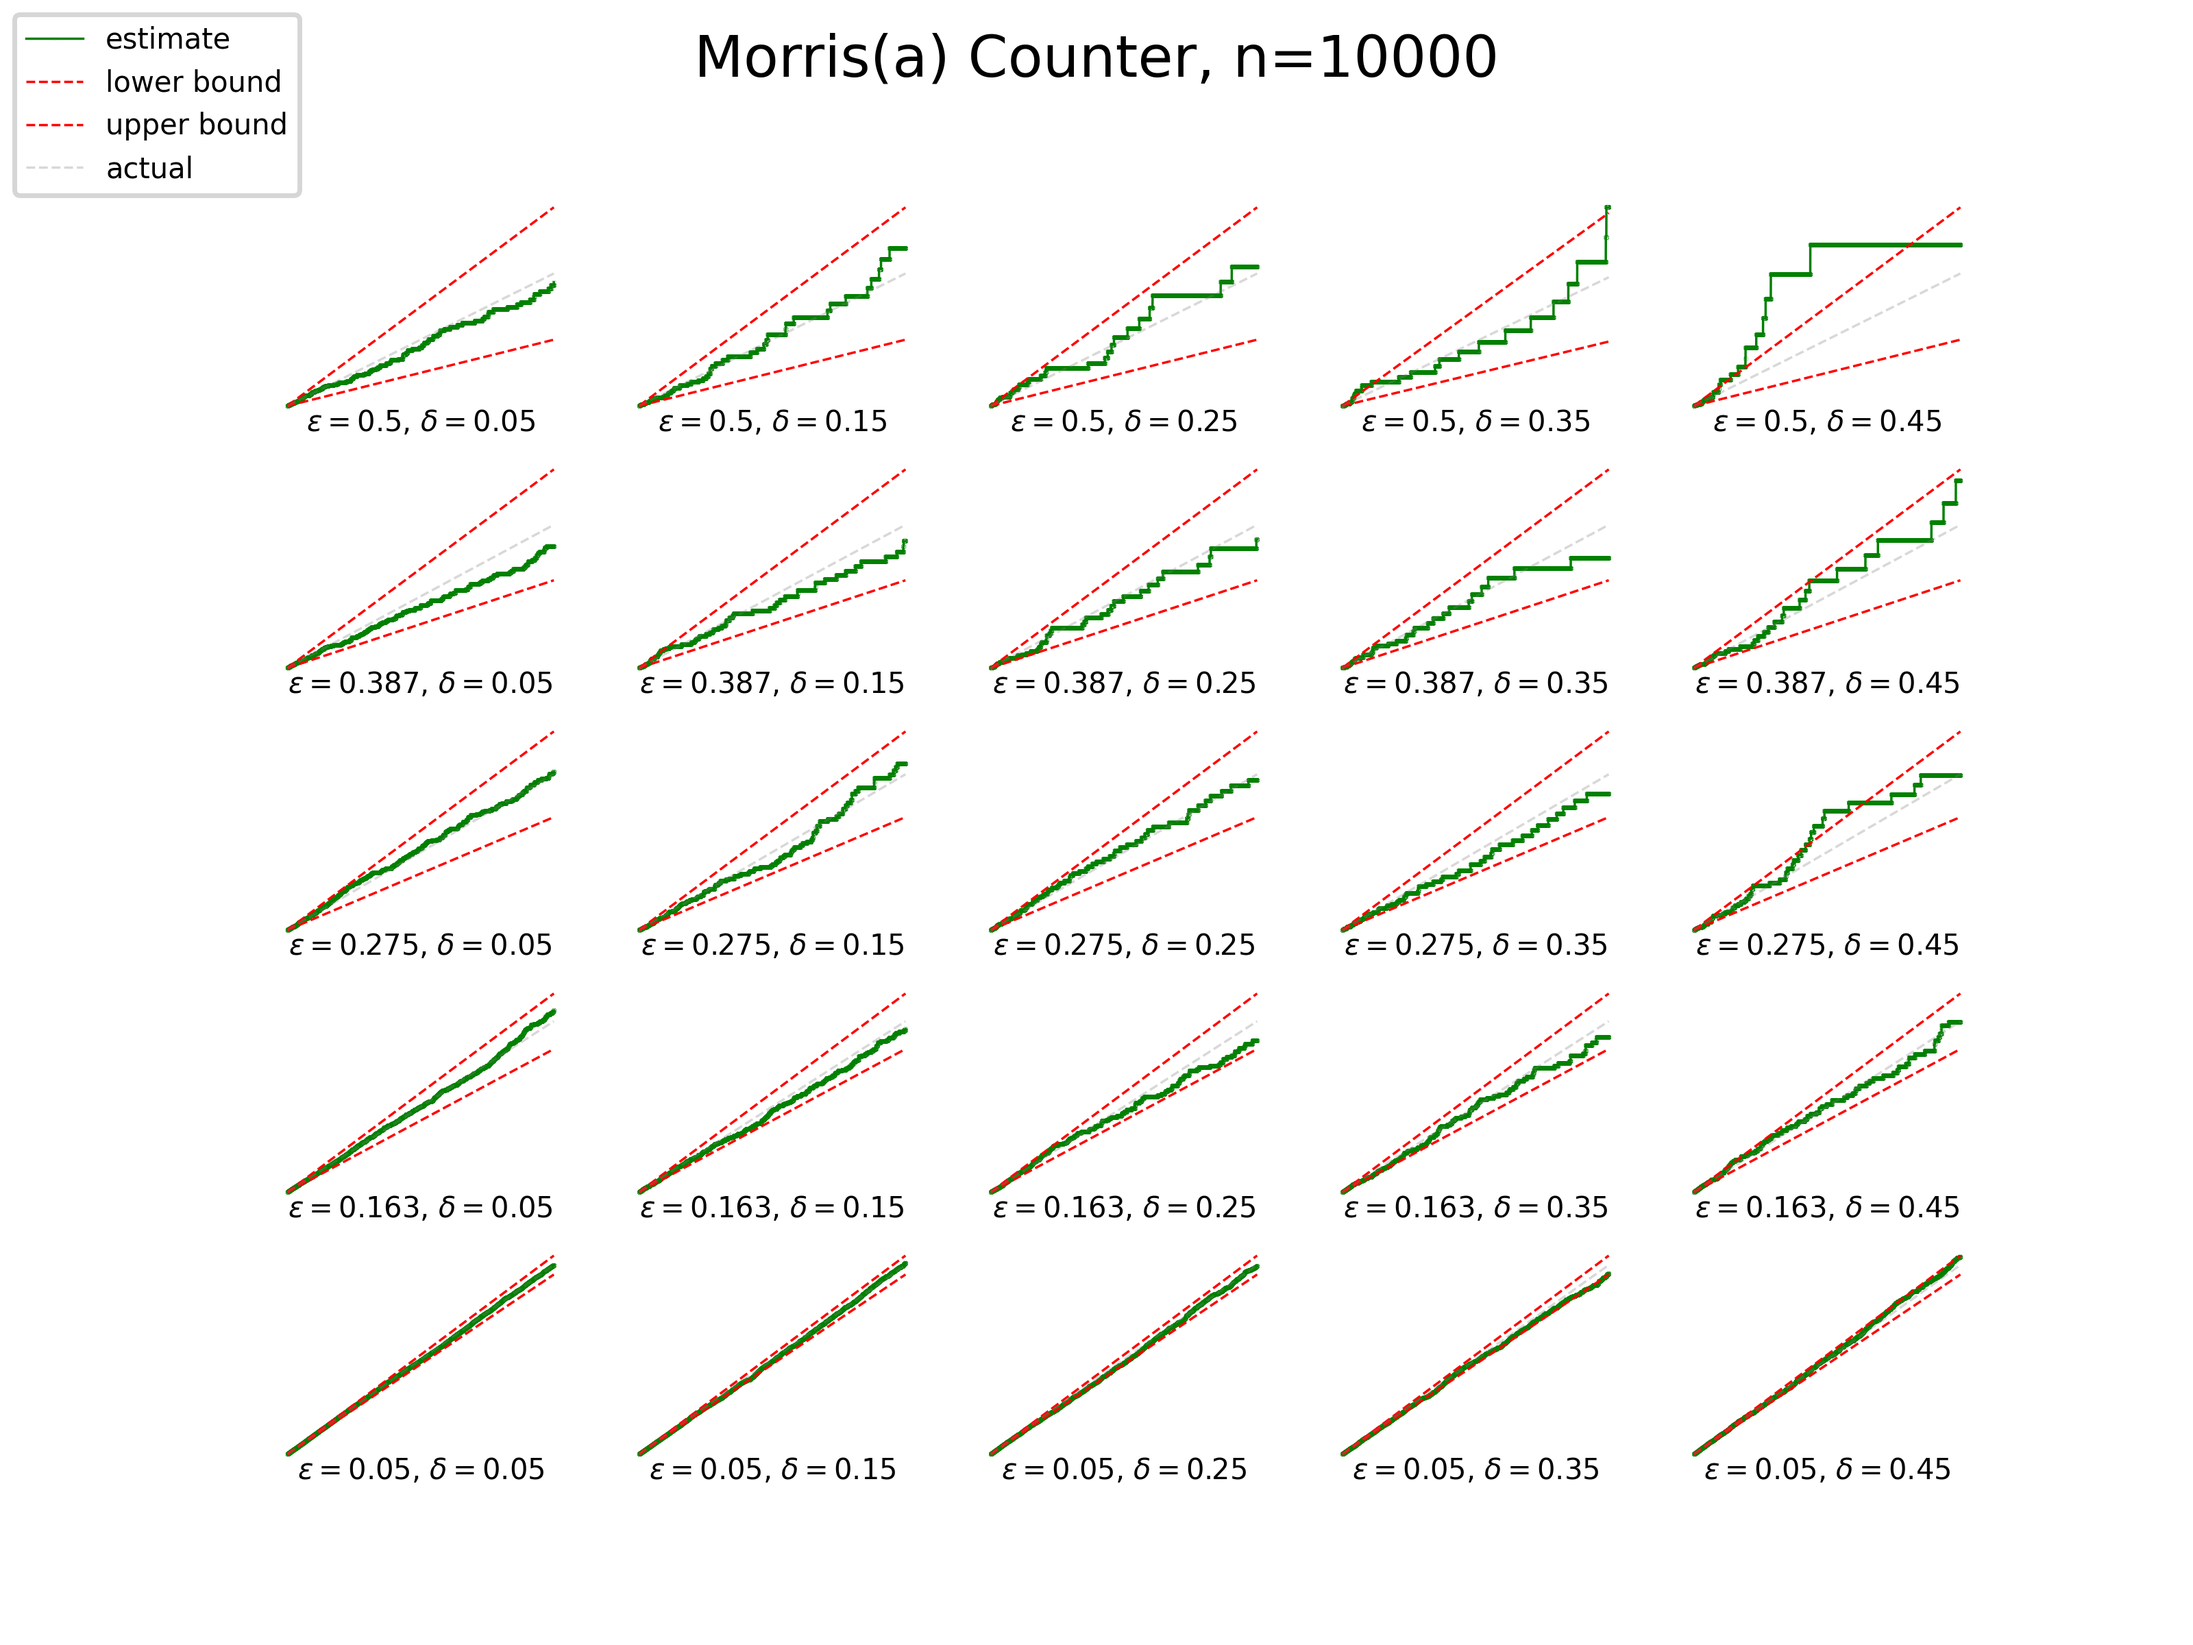
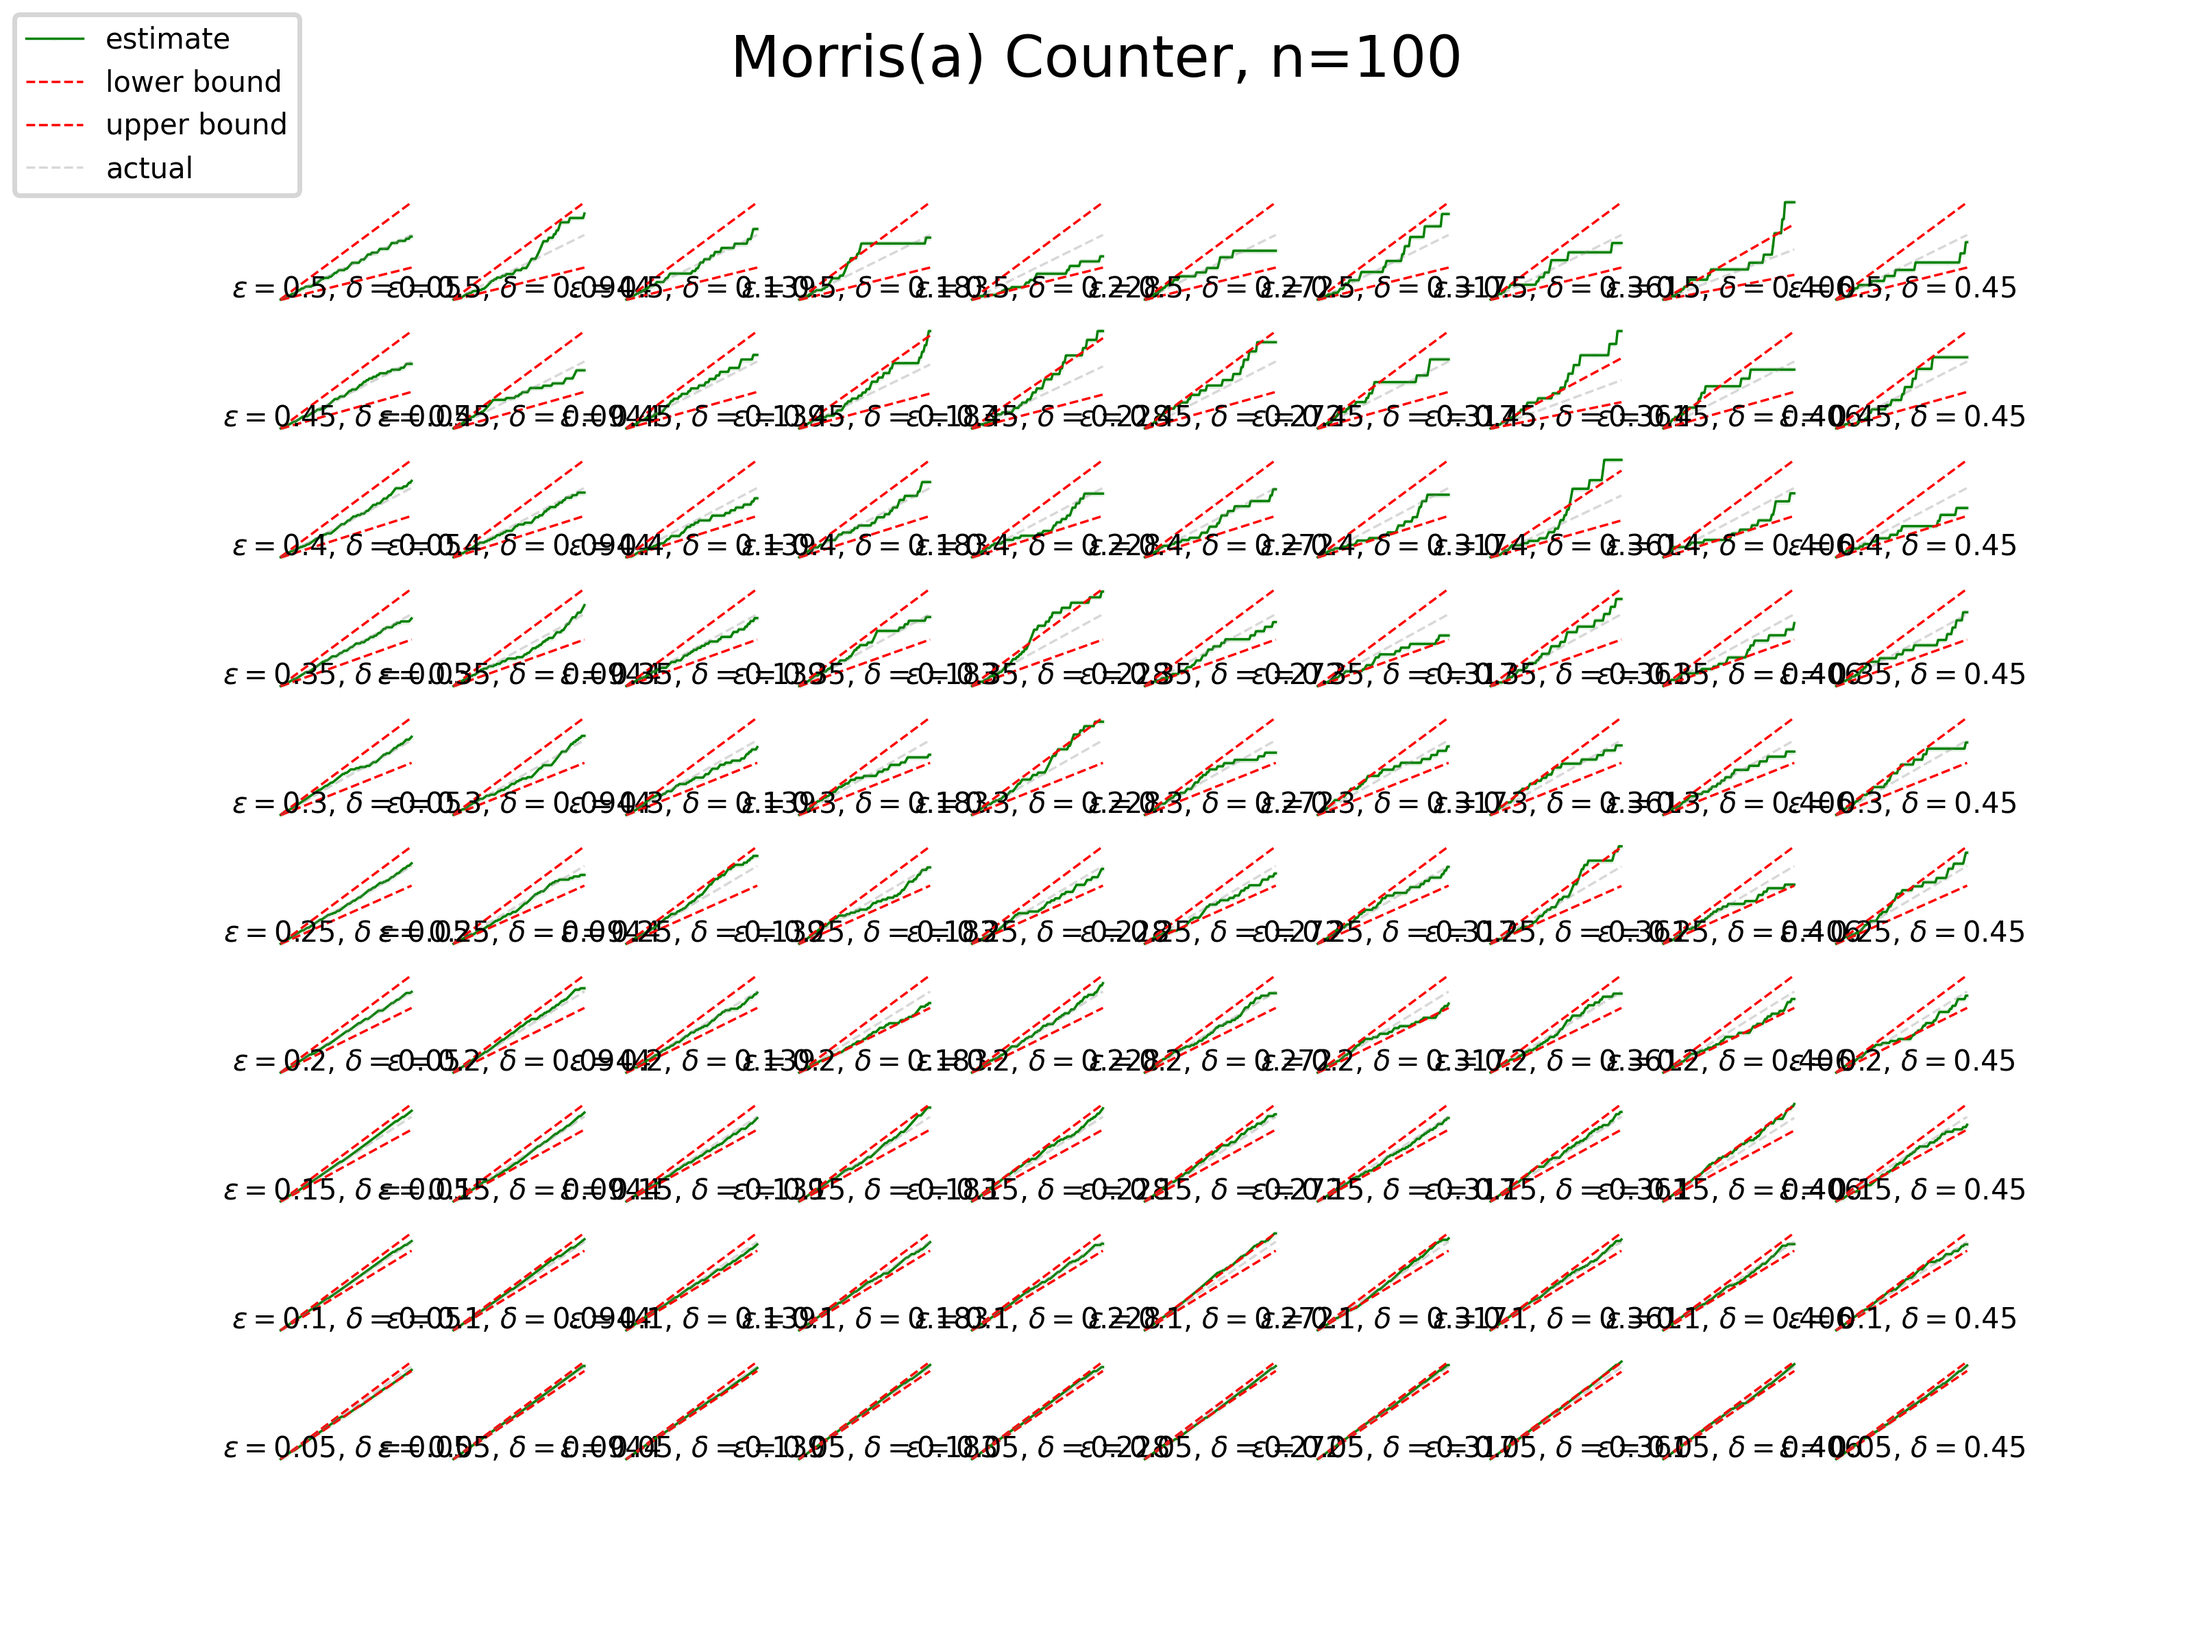
Update: plot_morriscounter.py comments added

Changed region(s): [[0.125, 0.125, 0.9062, 0.8438], [0.125, 0.8438, 0.9062, 0.9062], [0.3125, 0.0, 0.625, 0.0625]]

diff --git a/plot_morriscounter.py b/plot_morriscounter.py
@@ -4,7 +4,15 @@ from matplotlib.axis import Axis
 
 from morriscounter import MorrisCounter
 
+'''
+The following test file is only responsible for creating the graphs which are found
+We define "uppers, lowers, estimates, actuals" and keep appending the respective values of the counter 
+upon each loop, into the respective arrays. 
 
+This gets an array for each field. 
+
+This is then consecutively plotted on the chart. 
+'''
 def test(counter: MorrisCounter, n: int, axis: Axis) -> None:
   uppers, lowers, estimates, actuals = [], [], [], []
   for N in range(1, n+1):
@@ -22,6 +30,7 @@ def test(counter: MorrisCounter, n: int, axis: Axis) -> None:
 
     # print(f"{actual=}, {estimate=:.8f} in [{lower:.8f}, {upper:.8f}]")
 
+  # The following portion is responsible for the creation of the respective graphs we see.
   MARKER_SIZE=.01
   LINE_WIDTH=.5
   axis.plot(actuals, estimates, label="estimate", marker="o", color="green", markersize=MARKER_SIZE, linewidth=LINE_WIDTH)
@@ -34,14 +43,21 @@ def test(counter: MorrisCounter, n: int, axis: Axis) -> None:
 
 
 if __name__ == '__main__':
-  n = 10000
-  bins = 5
+  n = 100
+  bins = 10
   fig, axes = plt.subplots(bins, bins)
-  for r, accuracy in enumerate(np.linspace(.5, .95, bins)):
-    for c, max_failure_rate in enumerate(np.linspace(0.05, .45, bins)):
-      print(f"{accuracy=}, {max_failure_rate=}")
-      counter = MorrisCounter(accuracy=accuracy, max_failure_rate=max_failure_rate)
-      test(counter, n=n, axis=axes[r][c])
+  print(np.linspace(.5, .95, bins))
+  for r, accuracy in enumerate(np.linspace(.5, .95, bins)): #np.linspace creates an array of numbers between 0.5 and 0.95 where the array length is "bins" and the array is evenly distributed
+    for c, max_failure_rate in enumerate(np.linspace(0.05, .45, bins)): # r and c work with the number of elements in the respective arrays
+      print(f"{accuracy=}, {max_failure_rate=}") 
+      counter = MorrisCounter(accuracy=accuracy, max_failure_rate=max_failure_rate) # The morris counter is called here 
+      test(counter, n=n, axis=axes[r][c]) 
+      # The test function is called on every respective accuracy and Failiure rate. 
+
+
+
+  # counter = MorrisCounter(accuracy=accuracy, max_failure_rate=max_failure_rate)
+  # test(counter, n=n, axis=axes[r][c])
 
   fig.suptitle(f"Morris(a) Counter, {n=}")
   handles, labels = axes[-1][-1].get_legend_handles_labels()
@@ -49,4 +65,11 @@ if __name__ == '__main__':
   fig.savefig("plots/morris-a.png", dpi=500)
 
 
+
+
+'''
+Working of the Code 
+
+
+'''
 

diff --git a/morriscounter.py b/morriscounter.py
@@ -32,6 +32,9 @@ class MorrisCounter:
     self.rng = rng or Random()
     self.X = 0
 
+
+    print("epsilon: ", self.epsilon, "    delta", self.delta, "    a", self.a)
+
   def increment(self) -> None:
     if self._should_increment:
       self.X += 1
@@ -47,3 +50,14 @@ class MorrisCounter:
   @property
   def _should_increment(self) -> bool:
     return self.rng.uniform(0, 1) <= self._increment_probability
+
+
+
+
+
+"""
+Working of the Current Morris Counter 
+- 
+
+
+"""
